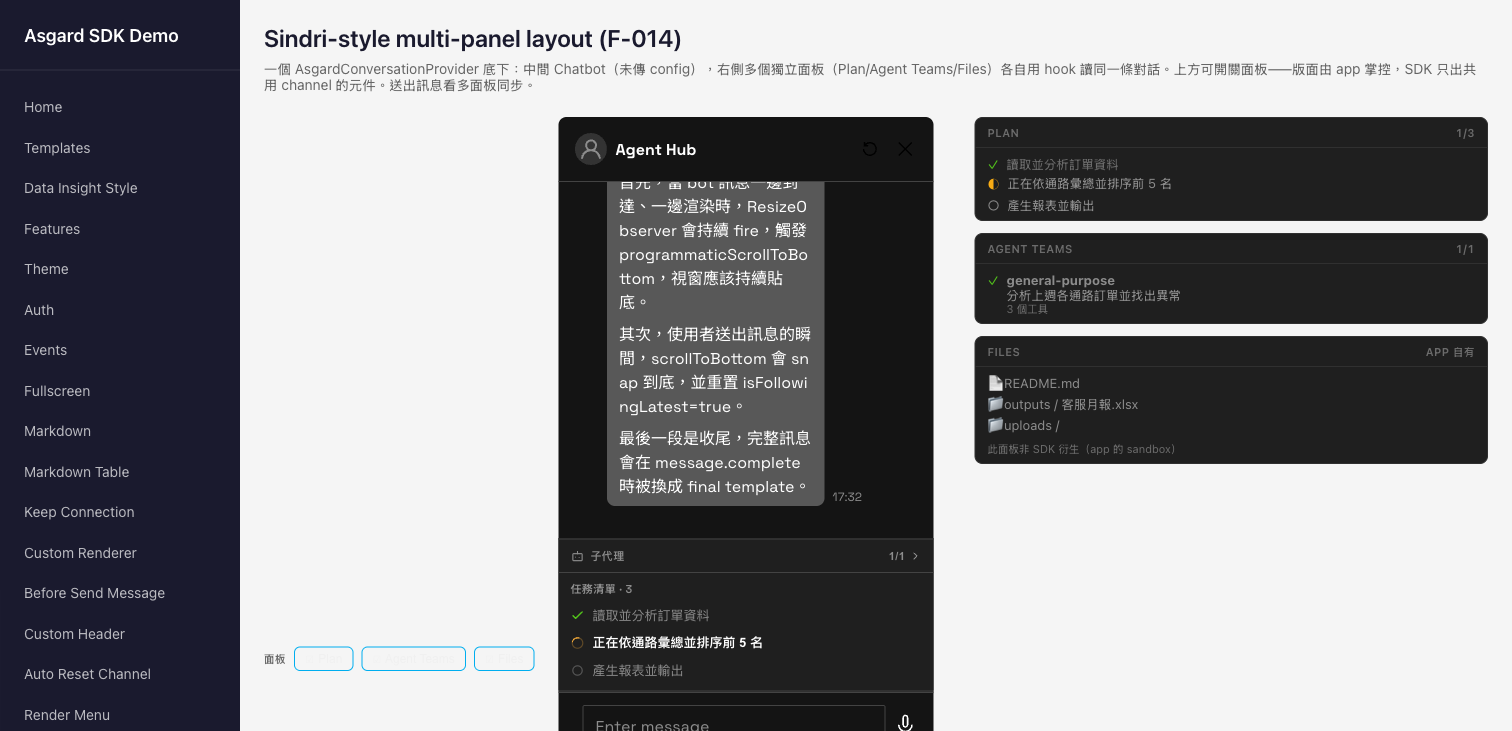
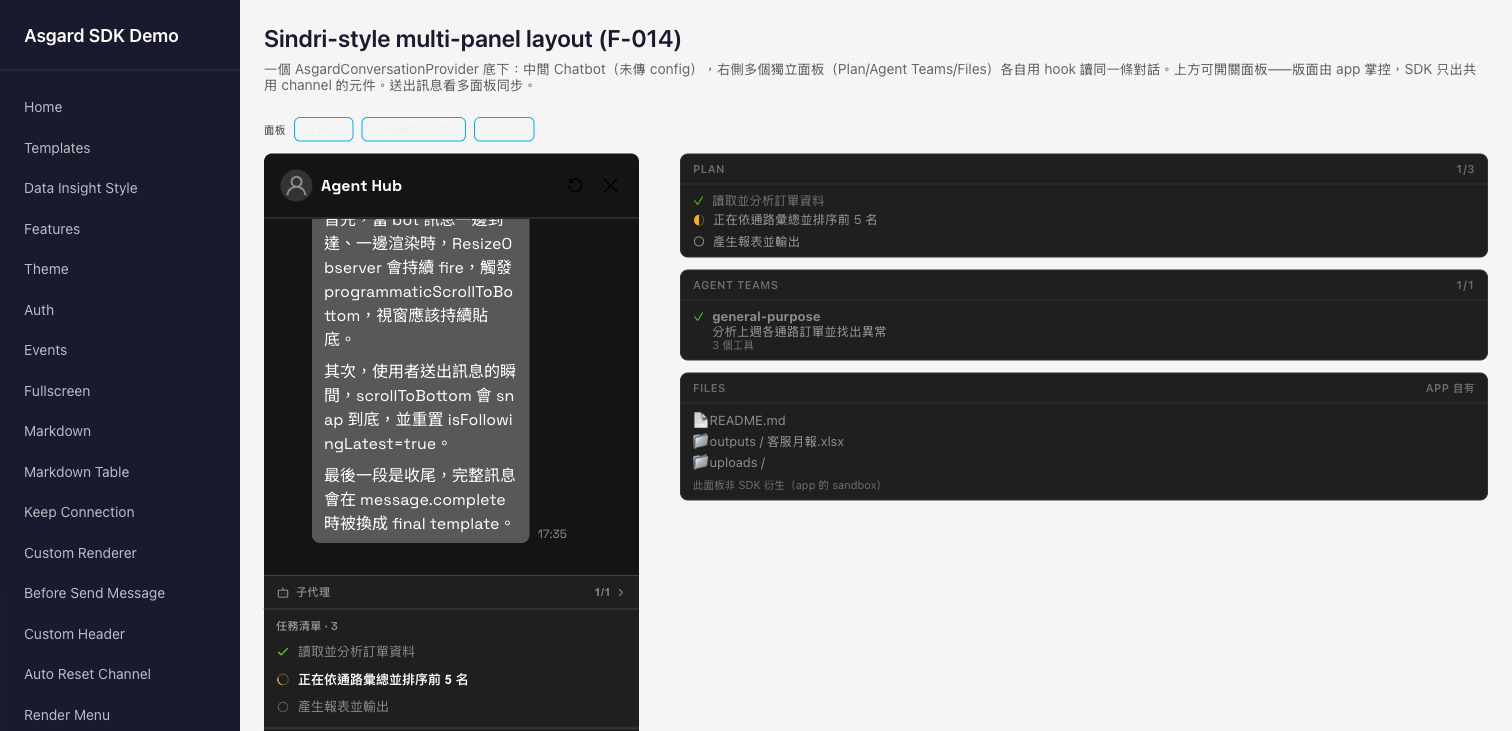
docs(react-demo): fix multi-panel demo layout (stack toolbar above workspace)

diff --git a/apps/react-demo/src/app/routes/multi-panel/multi-panel.tsx b/apps/react-demo/src/app/routes/multi-panel/multi-panel.tsx
@@ -29,35 +29,37 @@ export function MultiPanelDemo(): ReactNode {
       title="Sindri-style multi-panel layout (F-014)"
       description="一個 AsgardConversationProvider 底下：中間 Chatbot（未傳 config），右側多個獨立面板（Plan/Agent Teams/Files）各自用 hook 讀同一條對話。上方可開關面板——版面由 app 掌控，SDK 只出共用 channel 的元件。送出訊息看多面板同步。"
     >
-      <div className={styles.toolbar}>
-        <span className={styles.toolbar__label}>面板</span>
-        {PANELS.map(p => (
-          <button
-            key={p.key}
-            type="button"
-            className={open[p.key] ? styles.toggle_on : styles.toggle_off}
-            onClick={() => setOpen(o => ({ ...o, [p.key]: !o[p.key] }))}
-          >
-            {open[p.key] ? '☑' : '☐'} {p.label}
-          </button>
-        ))}
-      </div>
-
-      <AsgardConversationProvider config={config} customChannelId="multi-panel-demo">
-        <div className={styles.workspace}>
-          <div className={styles.chat}>
-            {/* No config here — the shared provider owns the channel. */}
-            <Chatbot title="Agent Hub" locale="zh-TW" />
-          </div>
-          {visible.length > 0 && (
-            <div className={styles.dock}>
-              {visible.map(p => (
-                <div key={p.key}>{p.render()}</div>
-              ))}
-            </div>
-          )}
+      <div className={styles.root}>
+        <div className={styles.toolbar}>
+          <span className={styles.toolbar__label}>面板</span>
+          {PANELS.map(p => (
+            <button
+              key={p.key}
+              type="button"
+              className={open[p.key] ? styles.toggle_on : styles.toggle_off}
+              onClick={() => setOpen(o => ({ ...o, [p.key]: !o[p.key] }))}
+            >
+              {open[p.key] ? '☑' : '☐'} {p.label}
+            </button>
+          ))}
         </div>
-      </AsgardConversationProvider>
+
+        <AsgardConversationProvider config={config} customChannelId="multi-panel-demo">
+          <div className={styles.workspace}>
+            <div className={styles.chat}>
+              {/* No config here — the shared provider owns the channel. */}
+              <Chatbot title="Agent Hub" locale="zh-TW" />
+            </div>
+            {visible.length > 0 && (
+              <div className={styles.dock}>
+                {visible.map(p => (
+                  <div key={p.key}>{p.render()}</div>
+                ))}
+              </div>
+            )}
+          </div>
+        </AsgardConversationProvider>
+      </div>
     </DemoWrapper>
   );
 }

diff --git a/apps/react-demo/src/app/routes/multi-panel/multi-panel.module.scss b/apps/react-demo/src/app/routes/multi-panel/multi-panel.module.scss
@@ -1,3 +1,11 @@
+.root {
+  flex: 1;
+  min-width: 0;
+  min-height: 0;
+  display: flex;
+  flex-direction: column;
+}
+
 .toolbar {
   display: flex;
   align-items: center;
